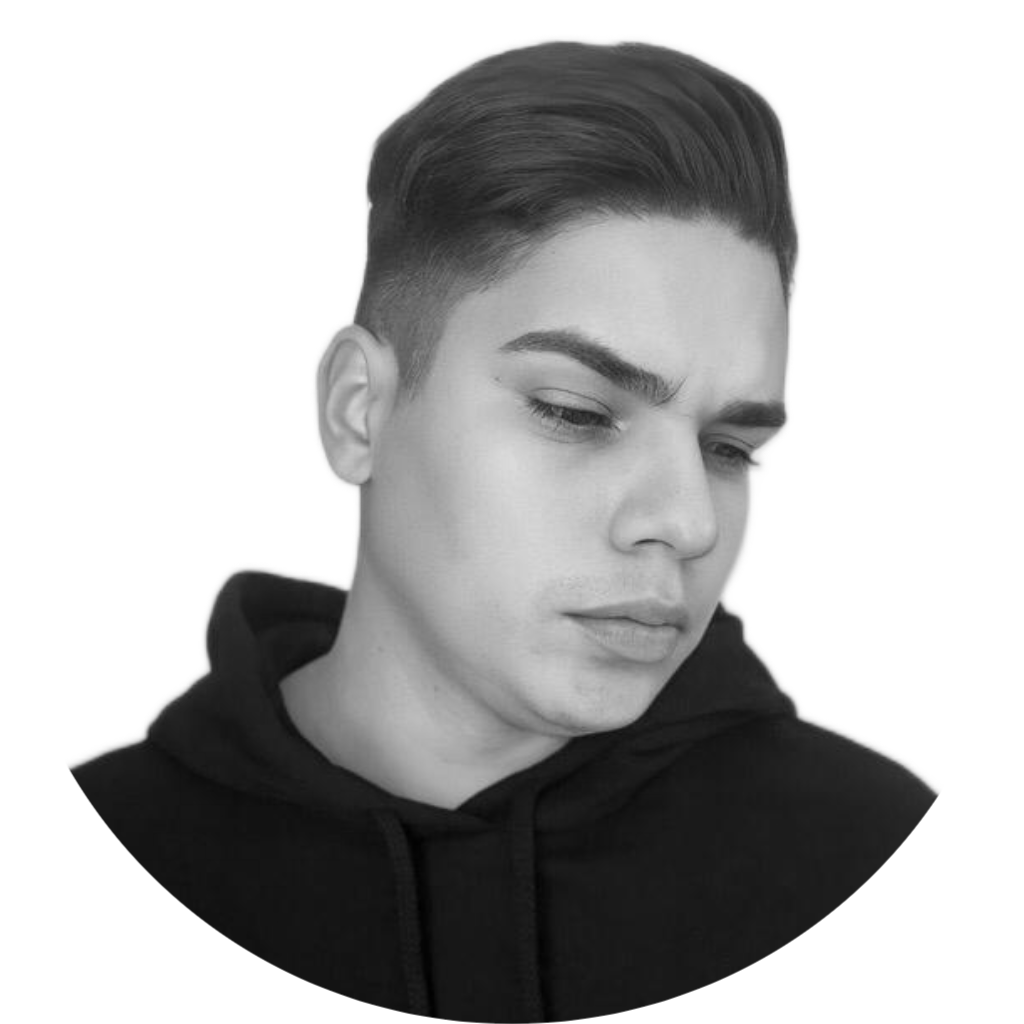
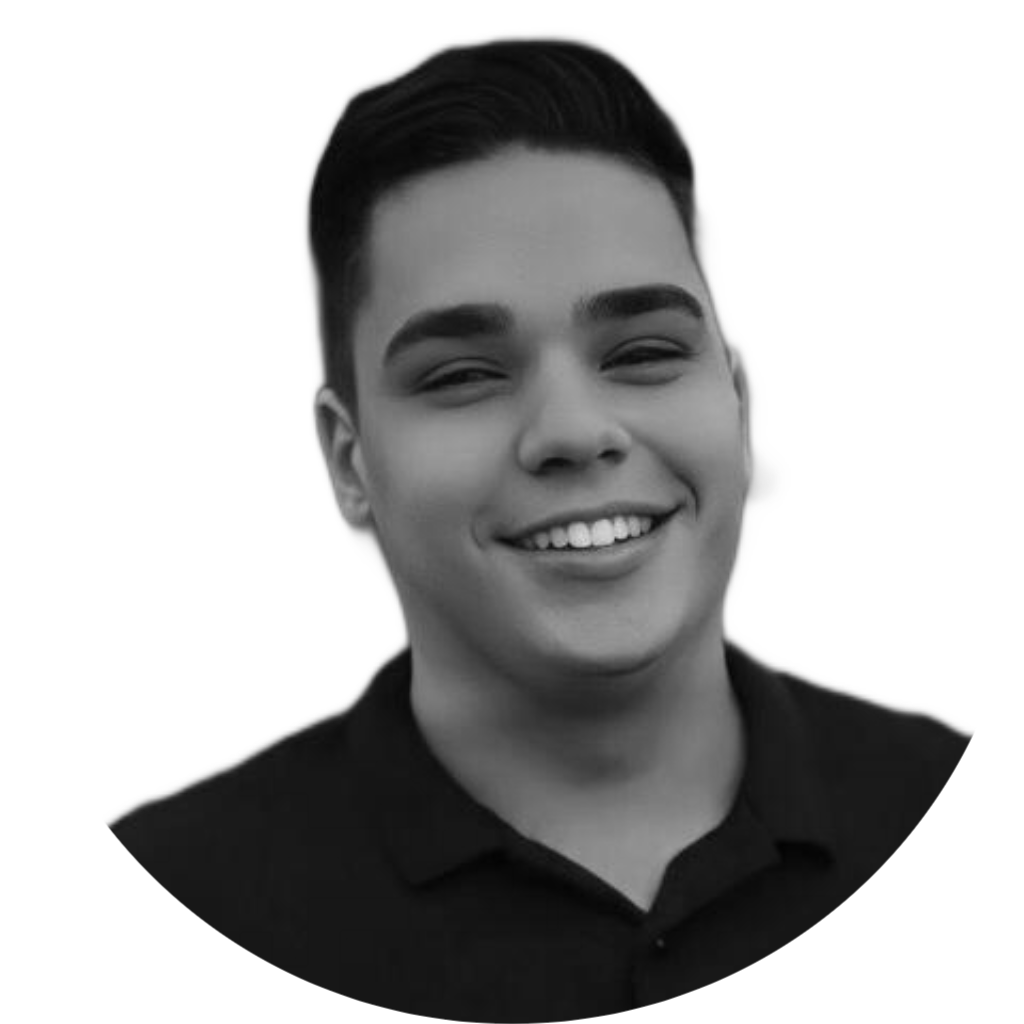
Atualizando foto e skills

diff --git a/index.html b/index.html
@@ -108,7 +108,7 @@
                     129.362C2.45775 97.8511 -7.48481 59.1033 6.67581 34.5279C20.9871 10.1032 59.7028 
                     -0.149132 97.9666 0.00163737C136.23 0.303176 174.193 10.857 190.312 36.4879Z" />
 
-                                <image class="home__blob-img" x="21" y="22" xlink:href="img/perfil.png" />
+                                <image class="home__blob-img" x="24" y="26" xlink:href="img/perfil.png" />
                             </g>
                         </svg>
                     </div>
@@ -231,8 +231,8 @@
 
                             <div class="skills__data">
                                 <div class="skills__titles">
-                                    <h3 class="skills__name">React</h3>
-                                    <span class="skills__number">80%</span>
+                                    <h3 class="skills__name">TypeScript</h3>
+                                    <span class="skills__number">60%</span>
                                 </div>
                                 <div class="skills__bar">
                                     <span class="skills__percentage skills__react"></span>
@@ -262,6 +262,16 @@
                                 </div>
                                 <div class="skills__bar">
                                     <span class="skills__percentage skills__php"></span>
+                                </div>
+                            </div>
+
+                            <div class="skills__data">
+                                <div class="skills__titles">
+                                    <h3 class="skills__name">Drupal</h3>
+                                    <span class="skills__number">45%</span>
+                                </div>
+                                <div class="skills__bar">
+                                    <span class="skills__percentage skills__node"></span>
                                 </div>
                             </div>
 
@@ -635,9 +645,9 @@
                             dietas, sessões de coaching, treinamento de força, 
                             treinamento de resistência, treinamento de flexibilidade, treinamento funcional e muito mais.</p>
                         <a href="https://gym-fernando.netlify.app/"
-                            class="button button--flex button--small portfolio__button">
+                            class="button button--flex button--small portfolio__bperfil">
                             Demonstração
-                            <i class="uil uil-arrow-right button__icon"></i>
+                            <i class="uil uil-arrow-right bperfil.png__icon"></i>
                         </a>
                     </div>
                 </div>
